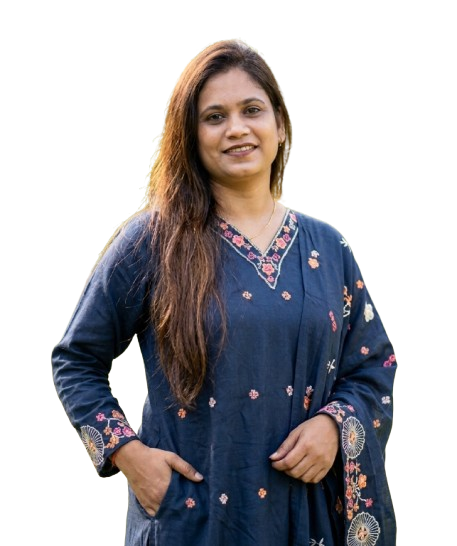
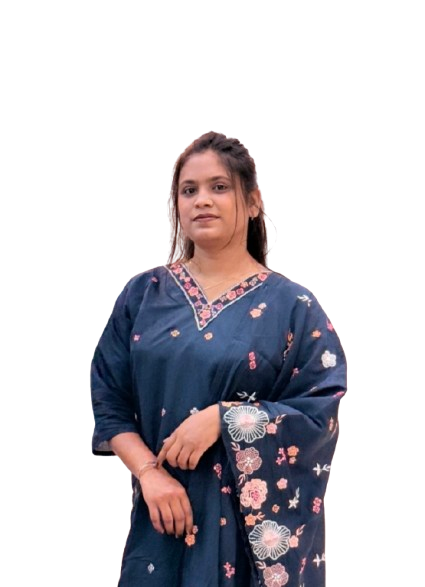
done

diff --git a/frontend/components/sections/academics/cse-section.jsx b/frontend/components/sections/academics/cse-section.jsx
@@ -157,12 +157,12 @@ const facultyMembers = [
     subject: "OOPS",
     degree: "M.Tech",
     image: "/images/ajay_sir.png",
-    badgeTitle: "10+ Years in",
-    badgeSubtitle: "AI Research",
-    titlePart1: "Empowering",
-    titlePart2: "Intelligence.",
-    titlePart3: "Shaping",
-    titlePart4: "Future.",
+    badgeTitle: "Object-Oriented",
+    badgeSubtitle: "Design Expert",
+    titlePart1: "Structuring",
+    titlePart2: "Code.",
+    titlePart3: "Building",
+    titlePart4: "Systems.",
   },
   {
     name: "Mr.Deepak Kumar Thakur",
@@ -170,10 +170,10 @@ const facultyMembers = [
     subject: "Paython",
     degree: "MCA",
     image: "/images/deepak_sir.png",
-    badgeTitle: "Algorithm",
-    badgeSubtitle: "Design Expert",
-    titlePart1: "Building",
-    titlePart2: "Logic.",
+    badgeTitle: "Python",
+    badgeSubtitle: "Programming Expert",
+    titlePart1: "Automating",
+    titlePart2: "Tasks.",
     titlePart3: "Mastering",
     titlePart4: "Code.",
   },
@@ -196,12 +196,12 @@ const facultyMembers = [
     subject: "C++",
     degree: "B.Tech",
     image: "/images/Bhavesh sir.png",
-    badgeTitle: "Network",
-    badgeSubtitle: "Administration",
-    titlePart1: "Routing",
-    titlePart2: "Data.",
-    titlePart3: "Connecting",
-    titlePart4: "Devices.",
+    badgeTitle: "C++",
+    badgeSubtitle: "Programming Pro",
+    titlePart1: "Compiling",
+    titlePart2: "Logic.",
+    titlePart3: "Executing",
+    titlePart4: "Performance.",
   },
   {
     name: "Mr. Dolchand Neware",
@@ -209,12 +209,12 @@ const facultyMembers = [
     subject: "Mathematics",
     degree: "M.Tech",
     image: "/images/neware sir.png",
-    badgeTitle: "Network",
-    badgeSubtitle: "Design Specialist",
-    titlePart1: "Optimizing",
-    titlePart2: "Flow.",
-    titlePart3: "Enhancing",
-    titlePart4: "Speed.",
+    badgeTitle: "Applied",
+    badgeSubtitle: "Mathematics",
+    titlePart1: "Solving",
+    titlePart2: "Equations.",
+    titlePart3: "Formulating",
+    titlePart4: "Logic.",
   },
   {
     name: "Miss Rashmi Dhurve",
@@ -222,51 +222,51 @@ const facultyMembers = [
     subject: "Data Structure",
     degree: "M.Tech",
     image: "/images/Rashmii mam.png",
-    badgeTitle: "Wireless",
-    badgeSubtitle: "Networks Expert",
-    titlePart1: "Connecting",
-    titlePart2: "Without Limits.",
-    titlePart3: "Innovating",
-    titlePart4: "Communication.",
+    badgeTitle: "Data",
+    badgeSubtitle: "Structures Expert",
+    titlePart1: "Organizing",
+    titlePart2: "Data.",
+    titlePart3: "Optimizing",
+    titlePart4: "Algorithms.",
   },
   {
     name: "Miss Ankita Namdev",
     role: "Assistant Professor",
-    subject: "Computer Networks",
+    subject: "DBMS",
     degree: "M.Tech",
     image: "/images/Ankita mam.png",
-    badgeTitle: "Protocol",
-    badgeSubtitle: "Analyst",
-    titlePart1: "Analyzing",
-    titlePart2: "Traffic.",
-    titlePart3: "Ensuring",
-    titlePart4: "Delivery.",
+    badgeTitle: "Database",
+    badgeSubtitle: "Management Specialist",
+    titlePart1: "Structuring",
+    titlePart2: "Databases.",
+    titlePart3: "Securing",
+    titlePart4: "Records.",
   },
   {
     name: "Miss Tripti Chouhan",
     role: "Assistant Professor",
-    subject: "Computer Networks",
+    subject: "Operating System",
     degree: "M.Tech",
     image: "/images/tripti mam.png",
-    badgeTitle: "Network",
-    badgeSubtitle: "Architect",
-    titlePart1: "Structuring",
-    titlePart2: "Networks.",
-    titlePart3: "Building",
-    titlePart4: "Backbones.",
+    badgeTitle: "Operating",
+    badgeSubtitle: "Systems Expert",
+    titlePart1: "Managing",
+    titlePart2: "Resources.",
+    titlePart3: "Powering",
+    titlePart4: "Hardware.",
   },
   {
     name: "Miss Deepali Tiwari ",
     role: "Assistant Professor",
-    subject: "Computer Networks",
+    subject: "COA",
     degree: "M.Tech",
     image: "/images/dipali-mam.png",
-    badgeTitle: "Data Comm.",
-    badgeSubtitle: "Expert",
-    titlePart1: "Transmitting",
-    titlePart2: "Data.",
-    titlePart3: "Bridging",
-    titlePart4: "Nodes.",
+    badgeTitle: "System",
+    badgeSubtitle: "Architecture",
+    titlePart1: "Designing",
+    titlePart2: "Architecture.",
+    titlePart3: "Understanding",
+    titlePart4: "Hardware.",
   },
   {
     name: "Miss Sakshee Rahangdale",
@@ -274,12 +274,12 @@ const facultyMembers = [
     subject: "TOC",
     degree: "B.Tech",
     image: "/images/sakshi mam.png",
-    badgeTitle: "Kernel",
-    badgeSubtitle: "Development",
-    titlePart1: "Managing",
-    titlePart2: "Resources.",
-    titlePart3: "Powering",
-    titlePart4: "Systems.",
+    badgeTitle: "Automata",
+    badgeSubtitle: "Theory Specialist",
+    titlePart1: "Computing",
+    titlePart2: "Theory.",
+    titlePart3: "Designing",
+    titlePart4: "Machines.",
   },
   {
     name: "Miss Payal Choudhary ",
